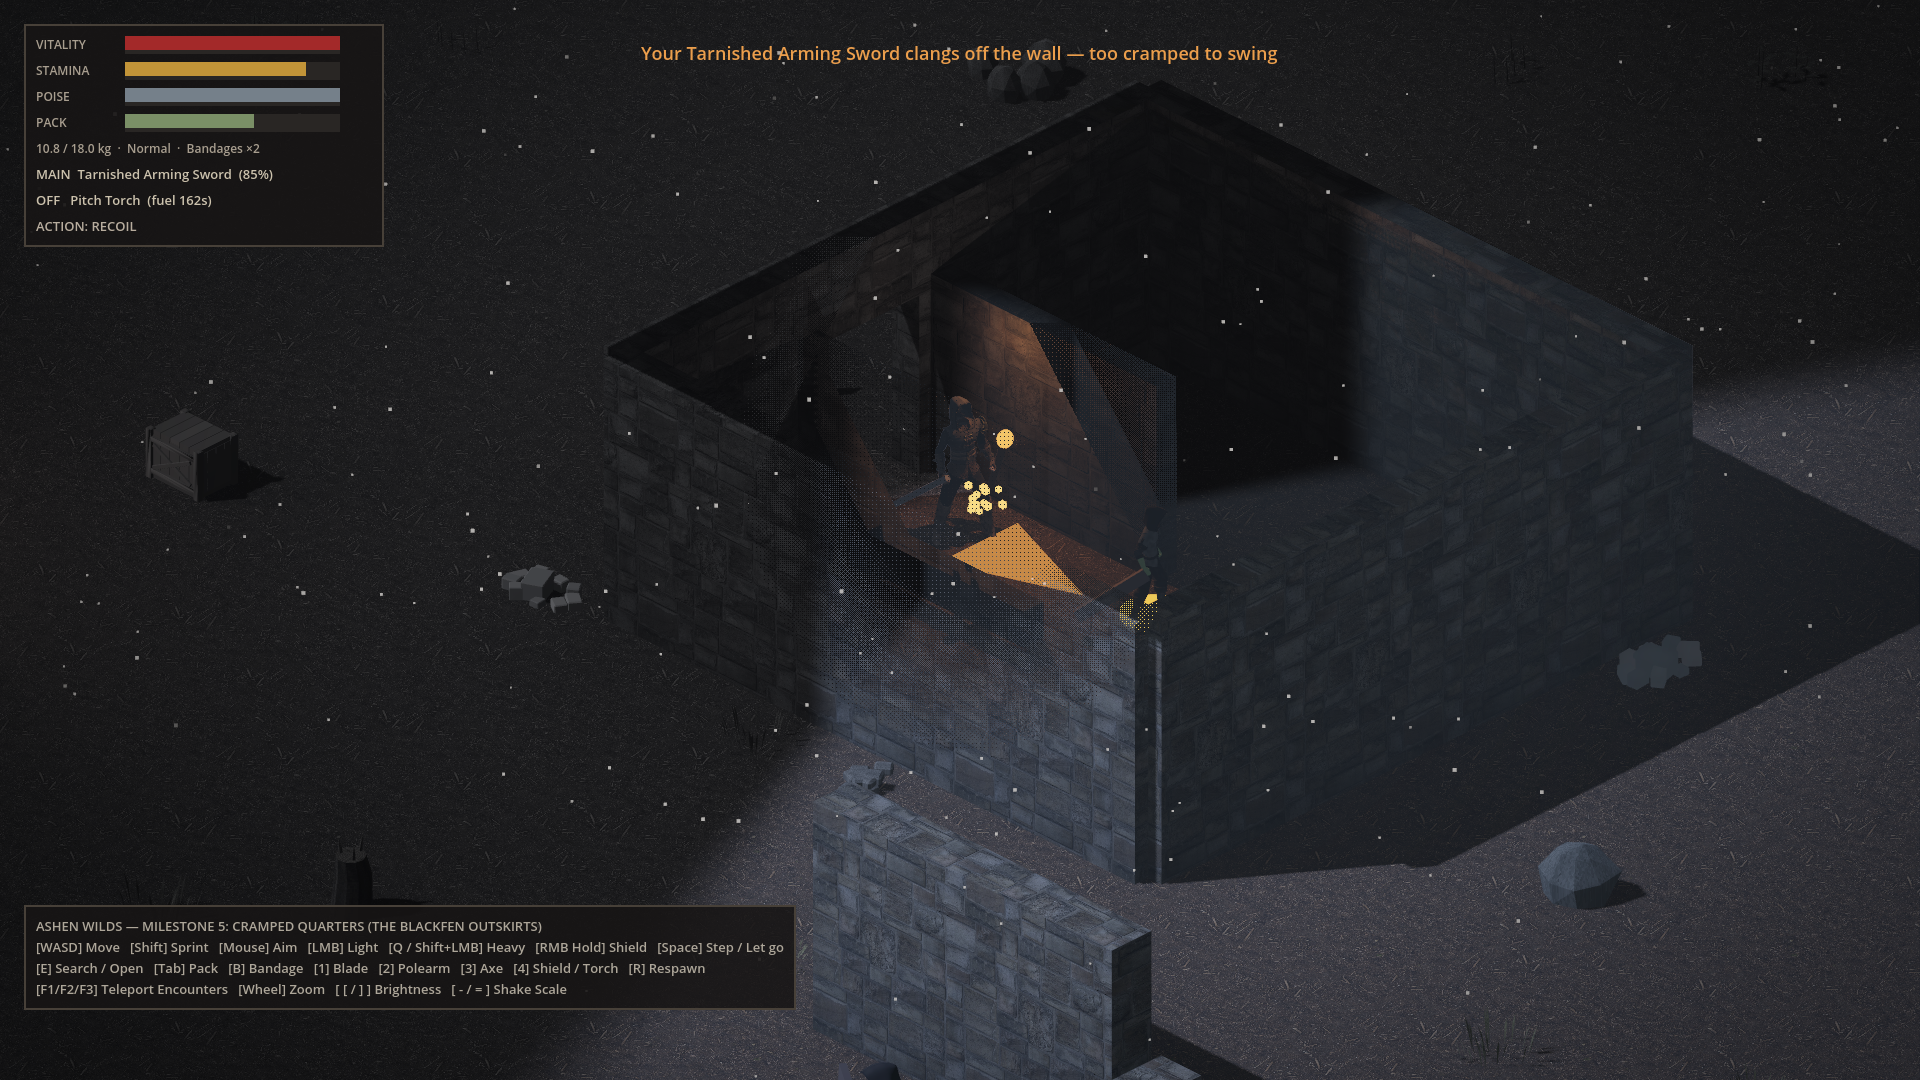
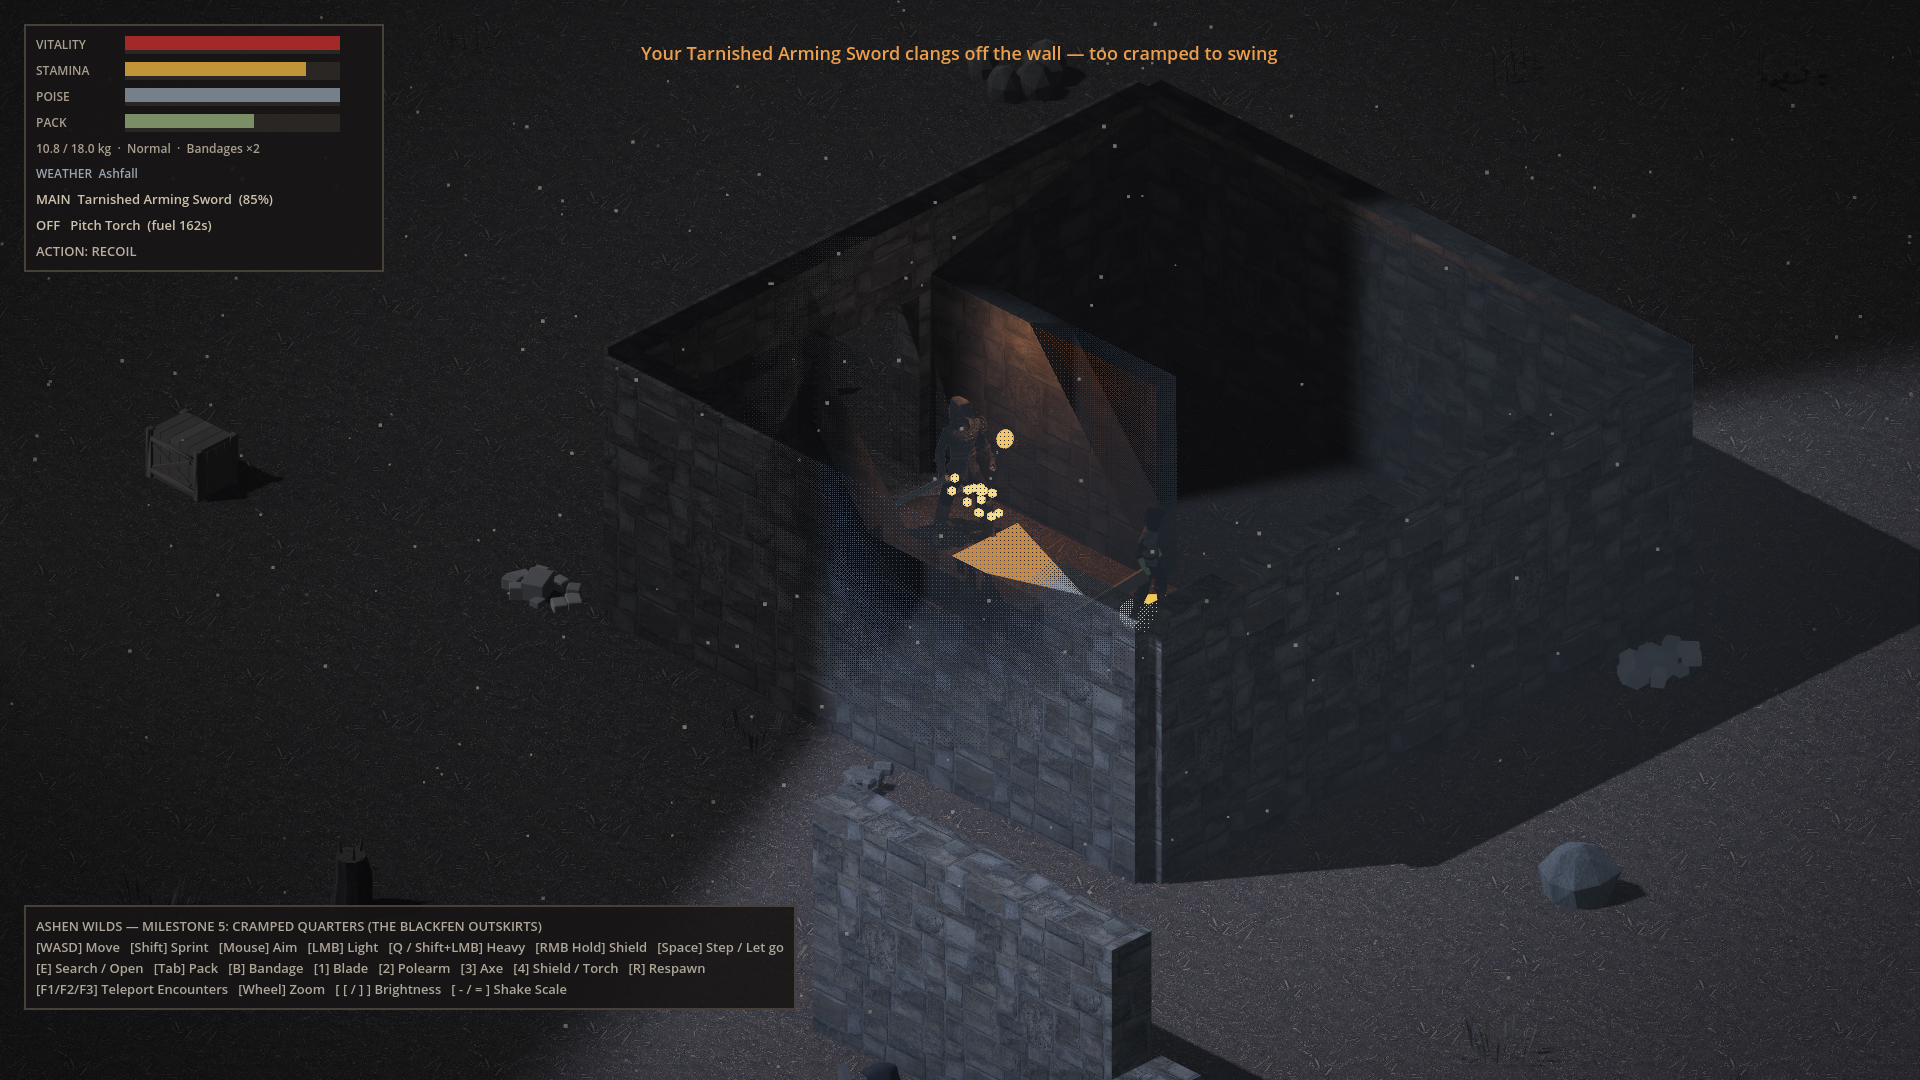
Weather 1: the Smothering's weathers
Six conditions on a cycle (70-130 s spells, 8 s blends): ashfall, miasma fog, sleet,
cinder-squall, hoarfrost and the Dead Calm. Each profile sets the fog, the ambient and moon,
the ash (count, colour, speed, drift, size), hearing (a multiplier on every loudness, the
survivor's and the enemies'), sight range (Perception), torch burn, the shelter fire and
footing (a speed multiplier). Hearing cuts both ways: a goblin 9 m away hears a sprint in the
Dead Calm and not in the miasma. A change is announced and named on the HUD; F5 forces the
next. 19 new checks (323). Screenshots 09 and 10 follow in the next commit.

Claude-Session: https://claude.ai/code/session_01UK584L4ivuHvXg3V6GYsv2

Changed region(s): [[0.0, 0.1528, 0.1562, 0.2444], [0.5, 0.4278, 0.5312, 0.4889]]

diff --git a/CLAUDE.md b/CLAUDE.md
@@ -48,7 +48,7 @@ $GODOT --headless --path . --quit-after 1200 2>&1 \
 
 **Expected headless noise. Ignore it:** `Parameter "m" is null` / `mesh_get_surface_count` (dummy renderer) and `ObjectDB instances leaked at exit` (an `AudioStreamGeneratorPlayback` under the dummy audio driver). Neither happens with a real renderer or sound card. **Exported release builds** also log one `Attempt to disconnect a nonexistent connection from 'NetMain' ... 'tree_exited'` line per process at shutdown after RPCs were exchanged; the editor binary never does, and it is unaffected by whether the peer is detached. Engine teardown noise, verified 2026-11-03; anything else in a log is a bug.
 
-Run the suite twice after timing-sensitive changes to catch flakiness. Currently: **304 checks, 0 failures**. The environment kit has its own collision suites, `tests/test_env006_collisions.gd` to `test_env009_collisions.gd` (exit code 1 on any failure).
+Run the suite twice after timing-sensitive changes to catch flakiness. Currently: **323 checks, 0 failures**. The environment kit has its own collision suites, `tests/test_env006_collisions.gd` to `test_env009_collisions.gd` (exit code 1 on any failure).
 
 ```bash
 # 5. Networked courtyard: a headless server and driven headless clients as separate processes on loopback.
@@ -93,7 +93,8 @@ scripts/data/       weapon_data, combat_payload, item_data, item_instance, item_
 scripts/inventory/  inventory.gd (stacks, weight, encumbrance, equip slots)
 scripts/world/      lootable.gd (crates, corpses, ground piles, lodged weapons), set_dressing.gd (the owner's kit placed as decoration; container models),
                     ash_fall.gd (shader-driven falling ash around the survivor), flicker_light.gd (the shelter fire's breathing light),
-                    acoustic_ripple.gd (dust rings for unseen noises, last-seen marks), vision_cone_overlay.gd (the charcoal memory map, a full-screen quad)
+                    acoustic_ripple.gd (dust rings for unseen noises, last-seen marks), vision_cone_overlay.gd (the charcoal memory map, a full-screen quad),
+                    weather.gd (six conditions on a cycle: fog, ash, fire, hearing, sight range, footing)
 scripts/player/     player_controller.gd (state machine, the largest file), survivor_model.gd (the animated Quaternius body and hand sockets),
                     perception.gd (the 130° vision cone cut by walls, hearing, ripples: what the survivor can see and hear)
 scripts/enemies/    enemy_goblin_scavenger, enemy_ork_warrior, enemy_ogre_brute, enemy_model.gd (the Ashbound body shared by all three)
@@ -125,6 +126,7 @@ Physics layers: 1 Environment · 2 PlayerBody · 3 EnemyBody · 4 PlayerHurtbox 
 - **Atmosphere:** `_build_atmosphere_and_lighting()` sets the night: cold `Moon` light, blue-grey ambient, distance fog plus ground mist (`fog_height`), glow on emissive flames, and a desaturated, slightly contrasty adjustment. All of it works in the browser's Compatibility renderer except SSAO (desktop only). The brightness setting still moves `tonemap_exposure` (0.6 to 2.6; default 1.7). Screenshots render at the default brightness; the owner found the first night far too dark, so judge darkness from the shots at default, not with a boost. A near-black fog colour darkens the ground under the mist; keep the mist colour pale.
 - **Enemy temperaments:** each enemy has its own style (a doc comment at the top of its script), an `aggression` (0 to 1; what it changes is documented on the export, different per enemy) and an `attack_power` multiplier on every damage it deals; base damages are named constants (`JAB_DAMAGE`, `SLASH_DAMAGE`, `CHARGE_DAMAGE`...). Goblin, the opportunist: circles at `CIRCLE_RADIUS`, darts in on `player_is_open()` or when its patience runs out, backstabs for x2 from behind the survivor's aim (`PlayerController.get_aim_direction()`), disengages after a jab, throws `ThrownStone`s at 5 to 11 m. Ork, the soldier: a guard held in front of it past `turtle_patience()` draws the shield bash, whose payload sets `CombatPayload.breaks_guard` (the player's block code staggers on it anyway); aggression scales recovery (x1.0 at 0.5, so the shield ork's timings are the baseline) and the bootstrap makes the shieldless ork 0.85. Ogre, the juggernaut: `WINDUP_POISE_MULT` during startups and the charge; the charge needs a shoulder-wide lane clear of layer 1 from knee to chest (`_charge_lane_clear()`: no doorways, no crates), has its own `_charge_hitbox`, cannot steer, and crashes into any StaticBody3D into RECOIL; enraged below 40%. New enemy attacks must take and release an attack token, and close every hitbox they open on death, stagger, `_abandon_attack()` and the survivor's death (goblin and ork `_stand_down()`). Every looping gait or idle clip must be in `SurvivorModel.LOOPING` (the suite checks), or it plays once and freezes.
 - **Perception (presentation only):** `PlayerController.perception` (`Perception`) is the survivor's sight and hearing. Sight is a `CONE_DEGREES` wedge around the aim plus a layer 1 ray from the eyes. Every enemy calls `perception.update_visibility(self, _visual_root, head_height, alive)` each tick and never reads `_visual_root.visible` for its own decisions (the ogre once did and would have gone blind behind the survivor; it has `_can_see_player()`). Enemies report every noise they make with a loudness in metres (`_noise(x)` on windups, swings, roars, slams; `report_footsteps()` by stride); an unseen heard noise spawns an `AcousticRipple` (rate-limited per source) and emits `heard`, which the bootstrap turns into the cue and a rare banner. Slipping out of sight leaves a last-seen mark (not for corpses). `VisionConeOverlay` is a full-screen quad drawn first among transparents (`render_priority -100`) so ash, sparks and ripples draw over it; it rebuilds world positions from `hint_depth_texture`, reversed on Forward+/Mobile (a `RenderingDevice` exists) and not on Compatibility. `enabled` (F4) restores the old draw rule, line of sight alone. Nothing in the simulation reads any of this.
+- **Weather:** `Weather` (bootstrap) holds `PROFILES`, one dictionary per `Condition`, every field a float or a Color so `profile()` can lerp a change over `BLEND_SECONDS`. `bind()` captures the base ambient, moon and fire energies and `_apply()` writes the blended profile every frame of a blend into the Environment, the Moon, `AshFall.apply()`, the `FlickerLight`, the player's `weather_hearing` / `weather_torch_burn` / `weather_footing`, and `Perception.hearing` / `sight_range`. Enemy hearing of the survivor goes through `get_noise_multiplier()`, which now includes `weather_hearing`, so a condition deafens or sharpens both sides. Tests set `cycling = false` and `set_condition(c, true)`; F5 is `advance()`. Add a condition by adding a profile and a `CYCLE` entry; nothing else needs to know.
 - **UI capture:** while the pack or loot window is open, `PlayerController.ui_capture` suppresses combat input. Any hit force-closes the windows.
 
 ## Conventions and pitfalls (learned the hard way)

diff --git a/README.md b/README.md
@@ -5,7 +5,7 @@ Thirty years into the Smothering, you are a broken survivor scavenging the Black
 
 ![The Blackfen Ogre winds up a ground slam while the survivor holds a torch and broadaxe](docs/screenshots/06_ogre_lair.png)
 
-> **Status:** single-player prototype, Milestones 1–5 complete · verified on Godot 4.3-stable (Forward+) · **304/304** headless regression checks passing
+> **Status:** single-player prototype, Milestones 1–5 complete · verified on Godot 4.3-stable (Forward+) · **323/323** headless regression checks passing
 > Art is still mostly placeholder (primitive meshes, procedural audio) — systems first. The survivor is now a rigged, animated character: the Ranger from [Quaternius](https://quaternius.com)'s Modular Character Outfits with his Universal Animation Libraries (CC0), recoloured dark and dirty for the Blackfen and replaceable later. Walls, ground, roof and crates wear photo-scanned textures from [ambientCG](https://ambientcg.com) (CC0), and the yard is dressed with the project's own environment kit: crates and barrels, dead trees, rocks, ruins, fences and ground cover. Nights are cold moonlight and low mist, with falling ash and warm, flickering firelight. The enemies are the Ashbound: hooded, ragged, grey-skinned figures (a hunched goblin, a shielded ork, a hulking ogre) on the same animation library.
 >
 > **Play it:** [in the browser](https://dribblejerp-klunkdunker.github.io/Ashen-Wilds/) (the single-player prototype; click the game once so it gets the keyboard) · [downloads for Linux, Chromebook, Windows and the dedicated server](https://github.com/dribblejerp-KlunkDunker/Ashen-Wilds/releases/tag/playtest). Both are rebuilt from `main` on every merge. The two-player courtyard needs a download: browsers cannot use its network transport yet.
@@ -25,6 +25,7 @@ Thirty years into the Smothering, you are a broken survivor scavenging the Black
 | ![Ork choke point](docs/screenshots/05_ork_choke_spear.png) | ![Ogre lair](docs/screenshots/06_ogre_lair.png) |
 | **Ork choke point with a spear.** Two-handed grip stows your shield; narrow thrusts outreach the Ork's shield wall. | **The Blackfen Ogre.** Slow, enormous, and too wide for doorways. The red ring is its slam zone. |
 | ![Sword clangs off the entry hall wall](docs/screenshots/07_entry_hall_clang.png) | ![The vision cone: a lit wedge ahead, charcoal behind, and the rings of an unseen goblin's footsteps](docs/screenshots/08_vision_cone_unseen_goblin.png) |
+| ![Miasma fog: green-grey, thick, sight closed to a few paces](docs/screenshots/09_miasma_fog.png) | ![A cinder-squall at the ork choke point: embers on the wind](docs/screenshots/10_cinder_squall.png) |
 | **Cramped quarters.** A sword slash in the 1.7 m entry hall clangs off the stone: sparks, a recoil stagger and triple wear. Indoors, thrust. | |
 
 <sub>Rendered with the project's own `tools/capture_screenshots.gd` (software Vulkan under Xvfb) at the default brightness. Enemies are frozen and posed for framing; time is slowed for the clang so the sparks survive the slow software frame rate.</sub>
@@ -45,6 +46,7 @@ Act I (the current playable slice) is the **Blackfen Outskirts**: secure the rui
 - **Fixed isometric camera** — 45° yaw, −30° pitch orthographic rig with cursor peek, zoom, trauma-based shake, and brightness/shake accessibility controls.
 - **Readable occlusion** — 4×4 Bayer-dithered cutaway on foreground walls, roofs that vanish when you're inside (with a shadow-only proxy so interiors stay dark), and **true line-of-sight enemy masking**: enemies behind walls aren't drawn, but you'll *hear* them.
 - **A 130° vision cone and acoustic ripples.** You see what the survivor sees: a wedge around where you aim, cut by walls. Outside it the world is a charcoal memory map and enemies are not drawn, and where one slips out of sight it leaves a dark mark on the ground. What you cannot see, you hear: every footstep, grunt, swing, roar and slam an enemy makes has a loudness in metres (muffled through stone), and an unseen one you hear raises a dust-ring ripple at its source, sized by its loudness. A goblin circling to your back is a trail of rings; keep it in front of you. F4 turns the cone off (dev).
+- **The Smothering's weathers.** Six conditions drift in and out on a cycle (a spell lasts 70–130 s, a change blends over 8 s), each changing what you can see, hear and do: **Ashfall** (the ordinary night), **Miasma fog** (sight closes to 7 m, sounds die), **Sleet** (the torch burns at ×1.8, the shelter fire dims, the ground is grease: 85% speed), **Cinder-squall** (embers on the wind, nothing heard over it, the torch fans), **Hoarfrost** (a hard bright moon, every sound carries ×1.25, the ground is ice: 80% speed) and the **Dead Calm** (nothing falls; everything is heard by everyone, ×1.6). Hearing cuts both ways: what muffles the goblin's footsteps muffles yours. F5 forces the next weather (dev).
 - **Commitment-based melee** — explicit `STARTUP → ACTIVE → RECOVERY` attack phases, stamina with exhaustion, poise and stagger, directional shield blocking with guard breaks, an evasive step with i-frames, and bleeding.
 - **Fair hit registration** — one hit per target per swing, and swings can't pass through walls.
 - **Three enemies, three ways to fight.** Each has its own attack style, an `aggression` (how readily it commits) and an `attack_power` (scales all its damage), tunable per enemy:
@@ -118,6 +120,7 @@ Act I (the current playable slice) is the **Blackfen Outskirts**: secure the rui
 | **R** | Respawn at the shelter fire |
 | **F1 / F2 / F3** | Teleport to Watchhouse / Ork choke point / Ogre lair (dev) |
 | **F4** | Vision cone on / off (dev) |
+| **F5** | Next weather (dev) |
 | **Mouse wheel** | Zoom |
 | **[ / ]** | Brightness down / up |
 | **- / =** | Camera shake down / up |
@@ -187,7 +190,7 @@ art/quaternius/            The survivor character and its animations (CC0; see t
 art/ambientcg/             Photo textures for walls, ground, roof and props (CC0; see the README there)
 assets/environment/        The project's own environment kit (ENV-001 to ENV-010; each set has a README)
 tests/
-  smoke_test.gd            Headless regression suite (304 checks)
+  smoke_test.gd            Headless regression suite (323 checks)
 tools/
   capture_screenshots.gd   Renders docs/screenshots/
   recolor_survivor_texture.py   Rebuilds the survivor's grim textures from the Ranger's
@@ -210,7 +213,6 @@ docs/screenshots/          README images (ignored by Godot via docs/.gdignore)
 
 Next milestone not yet chosen. Candidates from the design document:
 
-- **Weather & atmosphere** — ashfall, miasma fog, sleet, cinder-squalls, hoarfrost and the Dead Calm, each changing sight, hearing, fire and footing.
 - **Survivor backgrounds** — eight starting characters with gear, traits and permanent flaws.
 - Armor slots, companions, the Blind Quarry-Troll and the rest of the bestiary, and Acts II–III.
 

diff --git a/docs/PRODUCTION.md b/docs/PRODUCTION.md
@@ -157,6 +157,42 @@ payload (§74).
 Durable state and presentation are already distinct (appendix §75): positions and the player table
 are durable, the turn animation and HUD messages are local.
 
+## Weather 1 — the Smothering's weathers: evidence (brief §24)
+
+**What.** The roadmap line "ashfall, miasma fog, sleet, cinder-squalls, hoarfrost and the Dead
+Calm, each changing sight, hearing, fire and footing", built on Fable from that line (no fuller
+design exists). `Weather` holds one profile per condition and drifts through them on a cycle
+(70 to 130 s a spell, 8 s blends, a fixed seed). Each profile sets the fog (density, colour, mist),
+the ambient and moon scales, the ash (count, colour, speed, drift, size), hearing (a multiplier
+on every loudness, the survivor's and the enemies'), sight (metres, beyond which Perception sees
+nothing), torch burn, the shelter fire's light, and footing (a speed multiplier). The numbers:
+
+| | Fog | Sight | Hearing | Torch | Fire | Footing | Falls |
+|---|---|---|---|---|---|---|---|
+| Ashfall | 0.012 | 24 m | x1.0 | x1.0 | x1.0 | x1.0 | grey ash |
+| Miasma fog | 0.055, green-grey | 7 m | x0.7 | x1.0 | x0.9 | x1.0 | little |
+| Sleet | 0.02 | 14 m | x0.85 | x1.8 | x0.75 | x0.85 | fast pale streaks |
+| Cinder-squall | 0.03, warm | 9 m | x0.6 | x1.4 | x1.2 | x0.95 | orange embers, sideways |
+| Hoarfrost | 0.006, pale | 32 m | x1.25 | x1.2 | x1.0 | x0.8 | nothing; a bright moon |
+| Dead Calm | 0.004 | 40 m | x1.6 | x0.8 | x1.0 | x1.0 | nothing |
+
+Hearing cuts both ways by design: a goblin 9 m away hears a sprint in the Dead Calm (9 x 1.6)
+and not in the miasma (9 x 0.7), and the survivor's ripples reach the same way. A change is
+announced by a banner and named on the HUD; F5 forces the next.
+
+**Tests (run in this container).** `tests/smoke_test.gd`: 323 passed, 0 failures, twice (19 new:
+the start state; miasma's fog, sight and hearing on a goblin in the cone, on an enemy noise and
+on a goblin hearing a sprint, and the Dead Calm reversing all three; sleet's torch, fire, falling
+streaks and measured 85% walking speed; hoarfrost's footing, moon and hearing; a blend half way
+and complete; the cycle visiting all six). Kit suites, live boot and `tools/net_spike.py` clean.
+Two new README screenshots, looked at.
+
+**Not covered by headless tests.** Every number above is a first guess: whether 7 m of sight in
+the miasma is tense or merely blind, whether 70 to 130 s spells are too long or too short for a
+yard this size, whether the sleet's 85% and the hoarfrost's 80% read as footing or as lag, and
+how the fog colours sit on a real screen. The browser build was not re-run for this slice: it
+changes only values of the fog and ash the browser already renders.
+
 ## Perception 1 — the vision cone and acoustic ripples: evidence (brief §24)
 
 **What.** The roadmap line "unseen threats shown as dust-ring ripples sized by noise; a 130°
